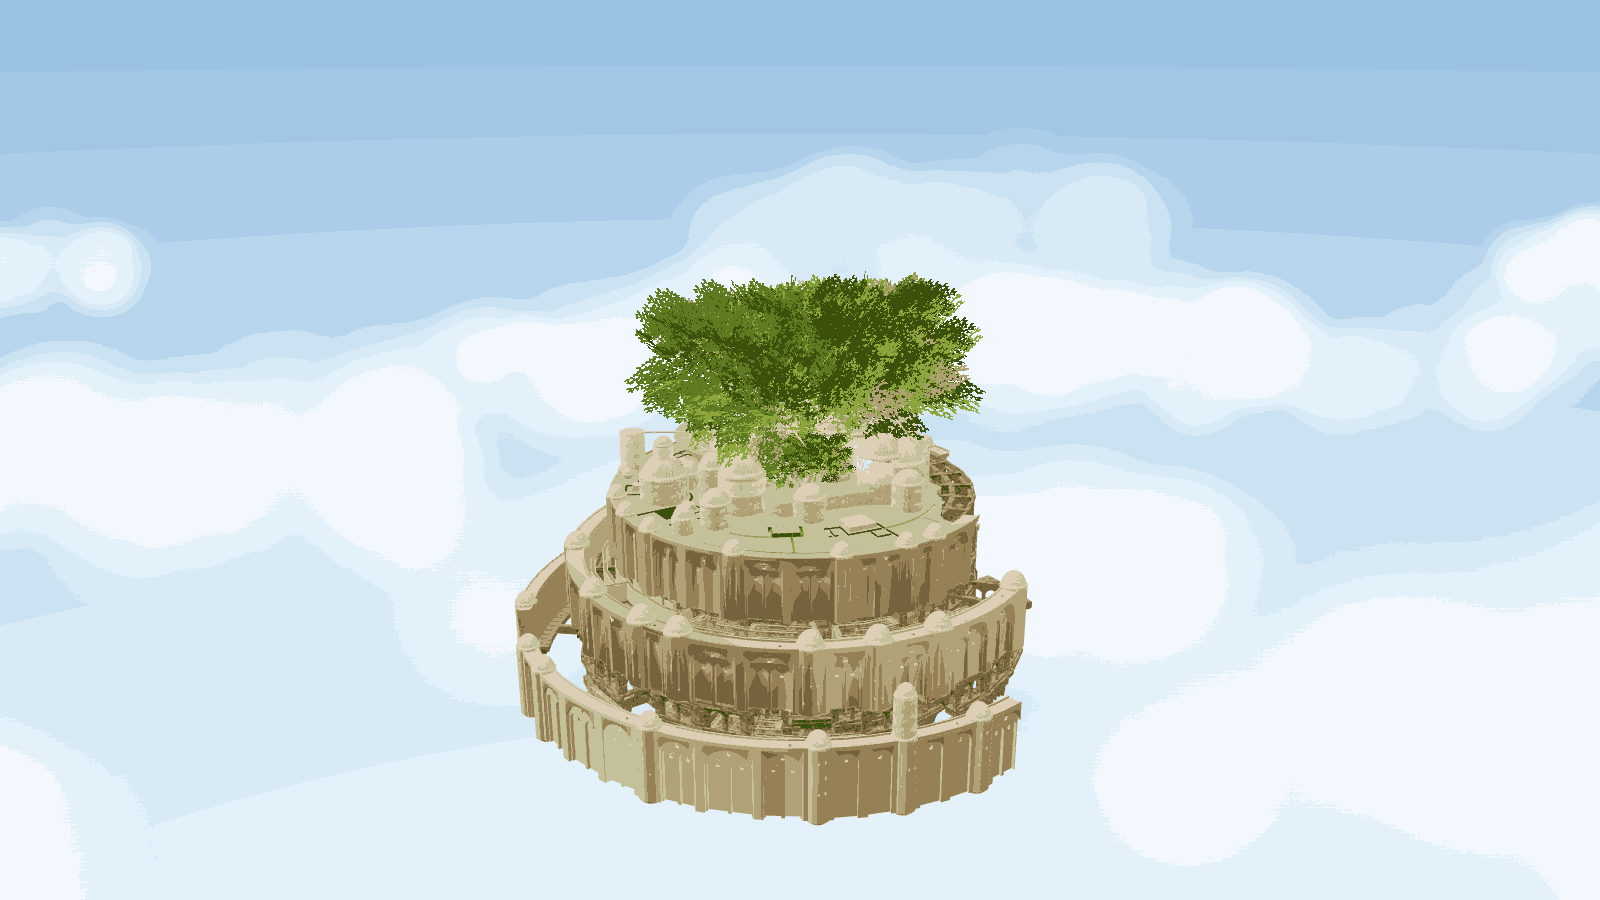
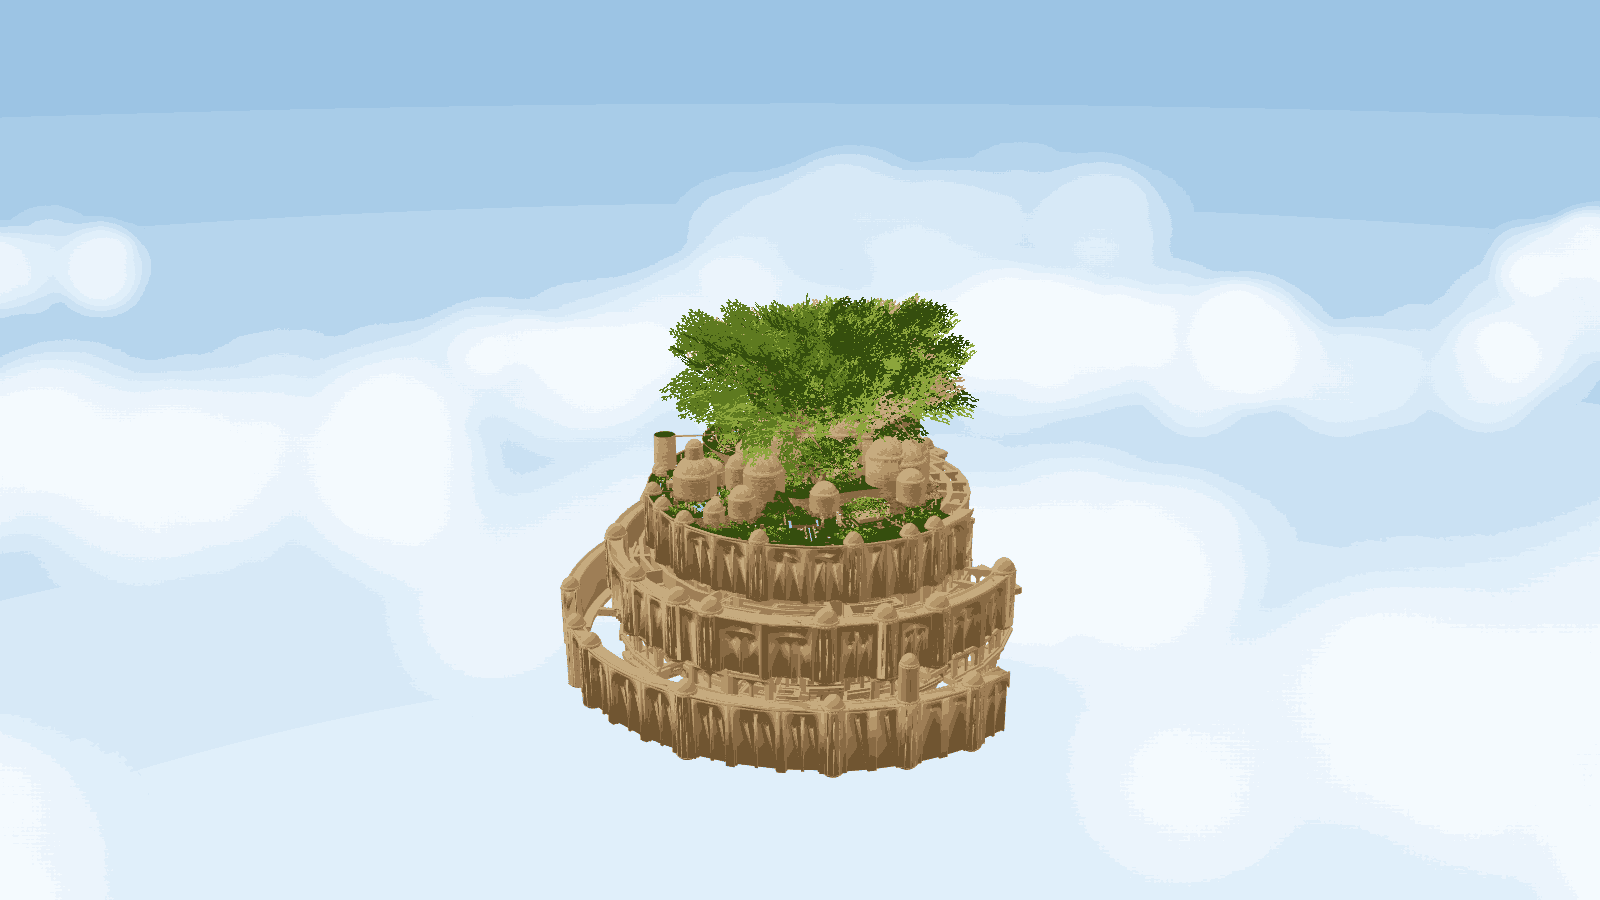
lab: update laputa-skyward

Changed region(s): [[0.3125, 0.3111, 0.6562, 0.9333]]

diff --git a/lab/sketches/laputa-skyward.html b/lab/sketches/laputa-skyward.html
@@ -47,7 +47,7 @@ function resize(){renderer.setPixelRatio(Math.min(devicePixelRatio||1,2));render
 function setHome(){const fov=THREE.MathUtils.degToRad(camera.fov),lim=Math.min(fov,2*Math.atan(Math.tan(fov/2)*camera.aspect)),distance=radius/Math.sin(lim/2)*.76;homePosition.copy(homeTarget).add(new THREE.Vector3(1,.48,1).normalize().multiplyScalar(distance));controls.maxDistance=distance*2;}
 function home(){const damping=controls.enableDamping;controls.enableDamping=false;controls.update();controls.target.copy(homeTarget);camera.position.copy(homePosition);controls.update();controls.enableDamping=damping;invalidate();}
 const decoder=new THREE.DRACOLoader();decoder.setDecoderPath('https://cdn.jsdelivr.net/npm/three@0.128.0/examples/js/libs/draco/gltf/');decoder.setWorkerLimit(2);const loader=new THREE.GLTFLoader();loader.setDRACOLoader(decoder);
-loader.load('../../assets/models/lab/laputa-web.glb',g=>{model=g.scene;const box=new THREE.Box3().setFromObject(model),sphere=box.getBoundingSphere(new THREE.Sphere());radius=sphere.radius;homeTarget.copy(sphere.center);scene.add(model);camera.near=radius/1500;camera.far=radius*80;camera.updateProjectionMatrix();controls.minDistance=radius*.12;loaded=true;document.querySelector('#home').disabled=false;setHome();home();createAtmosphere();intro=!reduced.matches;introTime=0;controls.enabled=!intro;skip.hidden=!intro;status.hidden=true;stats.ready=true;syncMotion();stats.meshes=0;model.traverse(o=>{if(o.isMesh)stats.meshes++;});decoder.dispose();},e=>{if(e.lengthComputable){progress.max=e.total;progress.value=e.loaded;message.textContent='라퓨타를 불러오는 중 · '+Math.round(e.loaded/e.total*100)+'%';}},()=>{decoder.dispose();fail('모델을 불러오지 못했습니다. 네트워크 연결을 확인한 후 다시 열어주세요.');});
+loader.load('../../assets/models/lab/laputa-web.glb?v=laputa2',g=>{model=g.scene;const box=new THREE.Box3().setFromObject(model),sphere=box.getBoundingSphere(new THREE.Sphere());radius=sphere.radius;homeTarget.copy(sphere.center);scene.add(model);camera.near=radius/1500;camera.far=radius*80;camera.updateProjectionMatrix();controls.minDistance=radius*.12;loaded=true;document.querySelector('#home').disabled=false;setHome();home();createAtmosphere();intro=!reduced.matches;introTime=0;controls.enabled=!intro;skip.hidden=!intro;status.hidden=true;stats.ready=true;syncMotion();stats.meshes=0;model.traverse(o=>{if(o.isMesh)stats.meshes++;});decoder.dispose();},e=>{if(e.lengthComputable){progress.max=e.total;progress.value=e.loaded;message.textContent='라퓨타를 불러오는 중 · '+Math.round(e.loaded/e.total*100)+'%';}},()=>{decoder.dispose();fail('모델을 불러오지 못했습니다. 네트워크 연결을 확인한 후 다시 열어주세요.');});
 const raycaster=new THREE.Raycaster(),pointer=new THREE.Vector2();canvas.addEventListener('dblclick',e=>{if(!model||intro)return;const rect=canvas.getBoundingClientRect();pointer.set((e.clientX-rect.left)/rect.width*2-1,-(e.clientY-rect.top)/rect.height*2+1);raycaster.setFromCamera(pointer,camera);const hit=raycaster.intersectObject(model,true)[0];if(!hit)return;const direction=camera.position.clone().sub(hit.point).normalize();controls.target.copy(hit.point);camera.position.copy(hit.point).addScaledVector(direction,radius*.65);controls.update();invalidate();});
 canvas.addEventListener('keydown',e=>{if(!loaded)return;if(intro){if(e.key==='Escape'||e.key.toLowerCase()==='h'){e.preventDefault();finishIntro();}return;}const offset=camera.position.clone().sub(controls.target),s=new THREE.Spherical().setFromVector3(offset);if(e.key.toLowerCase()==='h'){e.preventDefault();home();return;}if(e.key==='ArrowLeft')s.theta-=.08;else if(e.key==='ArrowRight')s.theta+=.08;else if(e.key==='ArrowUp')s.phi-=.06;else if(e.key==='ArrowDown')s.phi+=.06;else if(e.key==='+'||e.key==='=')s.radius*=.9;else if(e.key==='-')s.radius*=1.1;else return;e.preventDefault();s.phi=THREE.MathUtils.clamp(s.phi,controls.minPolarAngle,controls.maxPolarAngle);s.radius=THREE.MathUtils.clamp(s.radius,controls.minDistance,controls.maxDistance);camera.position.copy(controls.target).add(new THREE.Vector3().setFromSpherical(s));controls.update();invalidate();});
 canvas.addEventListener('auxclick',e=>{if(e.button===1)e.preventDefault();});canvas.addEventListener('pointerdown',()=>canvas.focus());canvas.addEventListener('webglcontextlost',e=>{e.preventDefault();contextLost=true;cancelAnimationFrame(frame);frame=0;fail('그래픽 연결이 중단되었습니다. 복구를 기다리거나 뷰어에서 RESTART를 눌러주세요.');});canvas.addEventListener('webglcontextrestored',()=>{contextLost=false;if(loaded)status.hidden=true;invalidate();});

diff --git a/lab/sketches/making/laputa-skyward.md b/lab/sketches/making/laputa-skyward.md
@@ -1,6 +1,6 @@
 # Laputa / Skyward
 
-**GPT-6 Astra Light · 2026·09 · 대화 2회, 수정 1회**
+**GPT-6 Astra Light · 2026·09 · 대화 3회, 수정 2회**
 기존 라퓨타를 보존한 별도 변형으로, 움직이는 구름과 회전하며 접근하는 카메라 도입부를 더했습니다.
 모델명은 기존 대화에서 사용자가 지정한 표기를 유지했습니다. 횟수는 이번 복제 버전 요청 기준입니다.
 
@@ -55,3 +55,16 @@
 - 사용자가 요청한 원 시점으로 버튼을 추가했습니다. 페이지 재시작 없이 카메라 위치와 중심점만 복원하고 잔여 관성을 제거합니다.
 - 실제 Chrome 마우스 입력으로 드래그 후 관성, 가운데 버튼 중심 이동, 원 시점 복원 및 잔여 이동 없음, 하늘 정지 상태의 렌더 종료, 동작 줄이기에서 관성 없는 정지를 확인했습니다. JavaScript 예외는 0개였습니다.
 - 375×812에서 버튼과 안내 배치를 확인했습니다. 기존 작품 포스터의 장면은 바뀌지 않아 유지했습니다.
+
+
+## laputa2.glb 모델 교체
+
+> 그 라퓨타 한거 이 파일로 바꿔줘
+
+- 사용자가 제공한 laputa2.glb(244,322,696바이트)로 공유 모델을 교체했습니다. 원본은 수정하지 않았습니다.
+- 메시 병합, 정점 병합, Draco 압축, 최대 2048px WebP 텍스처 변환을 적용했습니다. 폴리곤 단순화는 적용하지 않았습니다.
+- 최적화 파일은 33517704바이트이며 22개 메시로 렌더링됩니다. 나뭇잎은 기존과 같이 MASK 처리했습니다.
+- 카메라 조작과 연출을 유지하고 캐시 버전을 갱신했습니다. 포스터는 새 모델의 실제 실행 화면으로 교체했습니다.
+- 헤드리스 Chrome 1280×800에서 약 3초간 회전 입력 중 측정한 실제 렌더 프레임은 약 60fps였습니다. 모델 렌더 삼각형은 4,139,907개입니다.
+- 양쪽 버전의 로딩·회전·시점 복귀·375×812 화면과 Skyward 도입부 자동 종료를 확인했습니다. 콘솔 오류 및 JavaScript 예외는 0개였습니다.
+- 이전보다 다운로드와 기하 복잡도가 증가했습니다. 실제 모바일 기기와 느린 네트워크는 미검증입니다. 위의 3.76MB 등의 수치는 이전 제작 당시 기록입니다.
